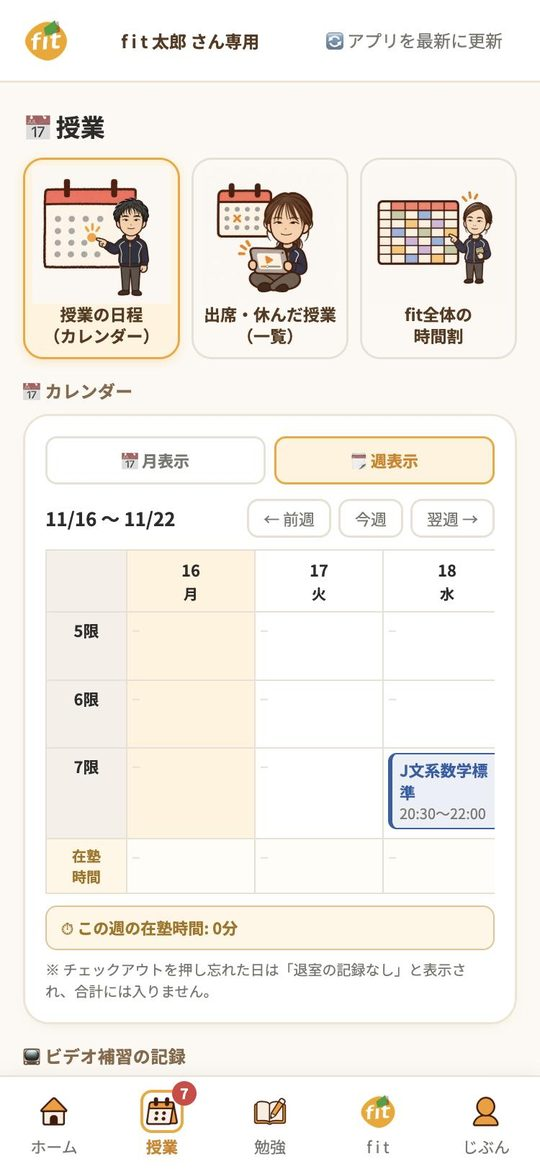
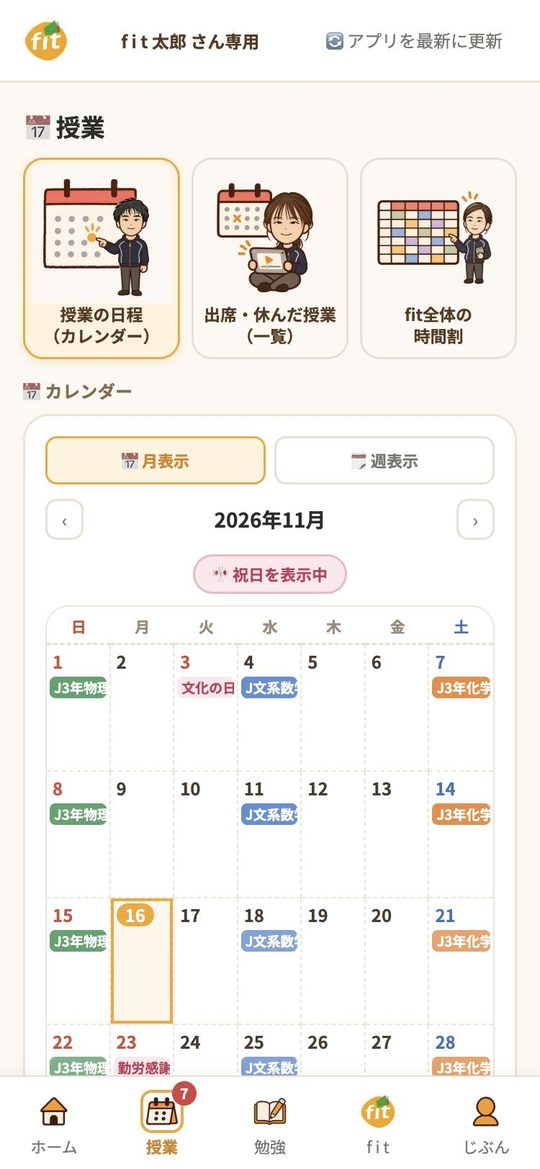
about.html: 授業の画面を月表示に・「塾とつながる」→「f i t とつながる」
Claude-Session: https://claude.ai/code/session_018owQgFBXgTo2sTNPkqmZ4u

diff --git a/about.html b/about.html
@@ -69,7 +69,7 @@ body{background:var(--bg);color:var(--text);font-family:"Noto Sans JP",sans-seri
   <p class="shots-lead">下の画面は見本です。登録すると、自分の授業やポイントが出ます。</p>
   <div class="shots">
     <div class="shot"><div class="phone"><img src="img/about_shot_home.jpg" alt="ホームの画面" loading="lazy"></div><h3><span>1</span>ホーム</h3><p>ポイント・小テスト・お知らせがひと目でわかる。塾に来たらチェックイン！</p></div>
-    <div class="shot"><div class="phone"><img src="img/about_shot_class.jpg" alt="授業の画面" loading="lazy"></div><h3><span>2</span>授業</h3><p>今週の授業がカレンダーで見られる。休んだ授業はビデオ補習へ。</p></div>
+    <div class="shot"><div class="phone"><img src="img/about_shot_class.jpg?v=2" alt="授業の画面" loading="lazy"></div><h3><span>2</span>授業</h3><p>自分の授業が月のカレンダーでひと目でわかる。休んだ授業はビデオ補習へ。</p></div>
     <div class="shot"><div class="phone"><img src="img/about_shot_study.jpg" alt="勉強の画面" loading="lazy"></div><h3><span>3</span>勉強</h3><p>受けている授業の教科アプリで、すき間時間に練習。勉強時間も記録できる。</p></div>
     <div class="shot"><div class="phone"><img src="img/about_shot_fit.jpg" alt="f i t の画面" loading="lazy"></div><h3><span>4</span>f i t</h3><p>先生に連絡・先輩図鑑・合格体験記・f i t 通信。塾とアプリでつながる。</p></div>
   </div>
@@ -90,7 +90,7 @@ body{background:var(--bg);color:var(--text);font-family:"Noto Sans JP",sans-seri
   </div>
   <div class="feat" style="margin-top:10px"><img src="img/stu_study.jpg" alt=""><div><h3>復習するとポイント</h3><p>授業の復習や小テストでポイントがたまります。先生が確認して付けてくれます。</p></div></div>
 
-  <div class="sec-title">塾とつながる</div>
+  <div class="sec-title">f i t とつながる</div>
   <div class="feat"><img src="img/stu_tsushin.jpg" alt=""><div><h3>お知らせ・f i t 通信</h3><p>講習の案内や塾からのお知らせが届きます。f i t 通信のバックナンバーも読めます。</p></div></div>
   <div class="feat"><img src="img/stu_message.jpg" alt=""><div><h3>先生に連絡</h3><p>学校担当の先生や、受けている授業の先生に、アプリから連絡できます。返事もここで読めます。</p></div></div>
   <div class="feat"><img src="img/stu_mendan.jpg" alt=""><div><h3>面談の目標</h3><p>先生と決めた目標をアプリで確認。達成したら報告できます。</p></div></div>
